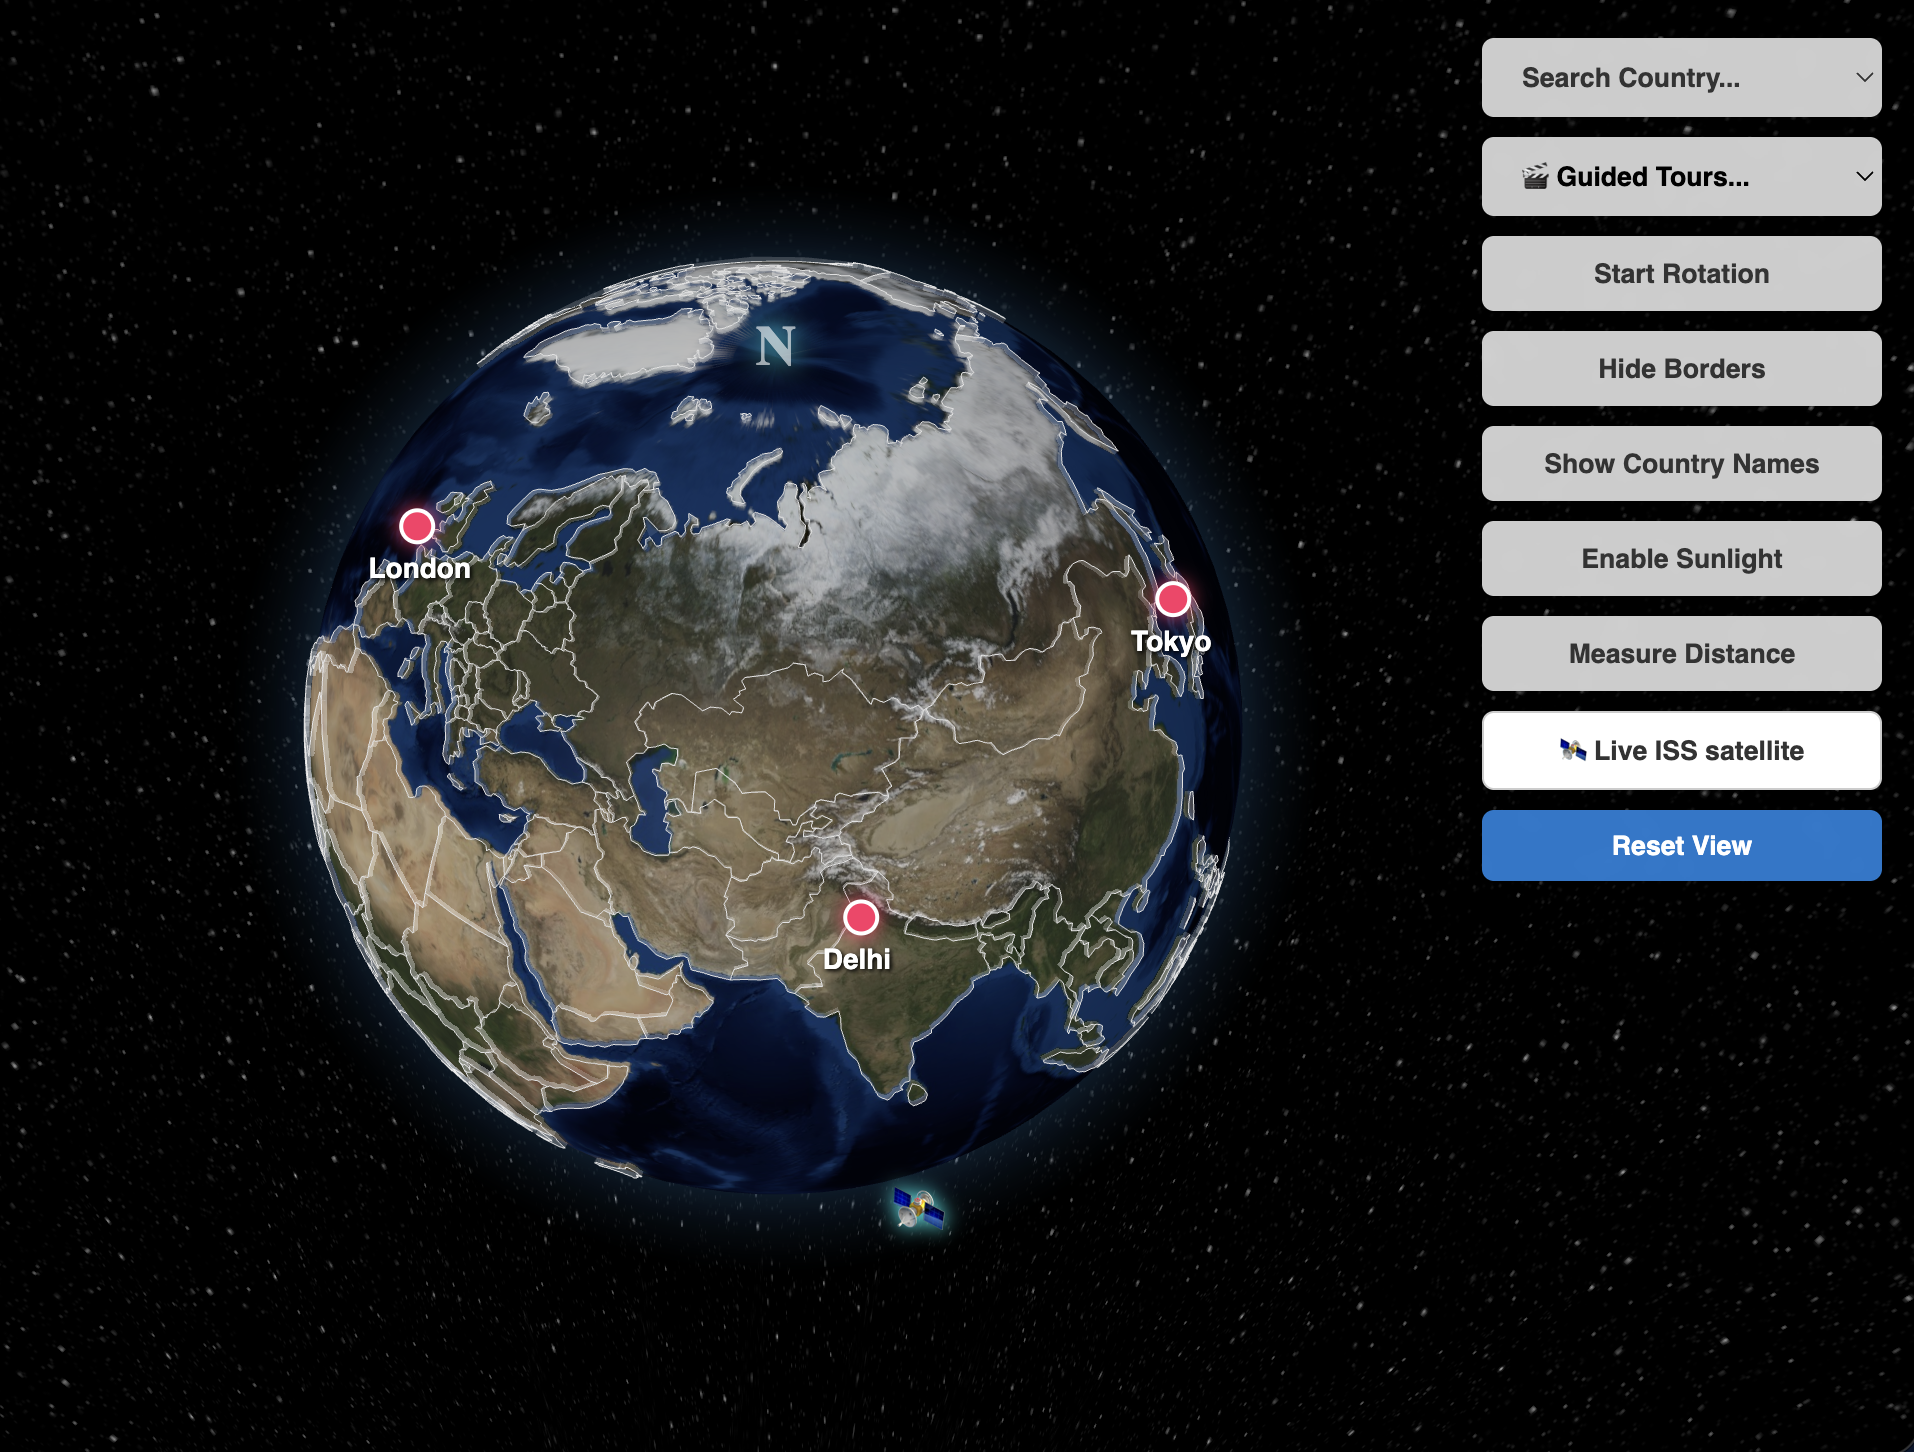
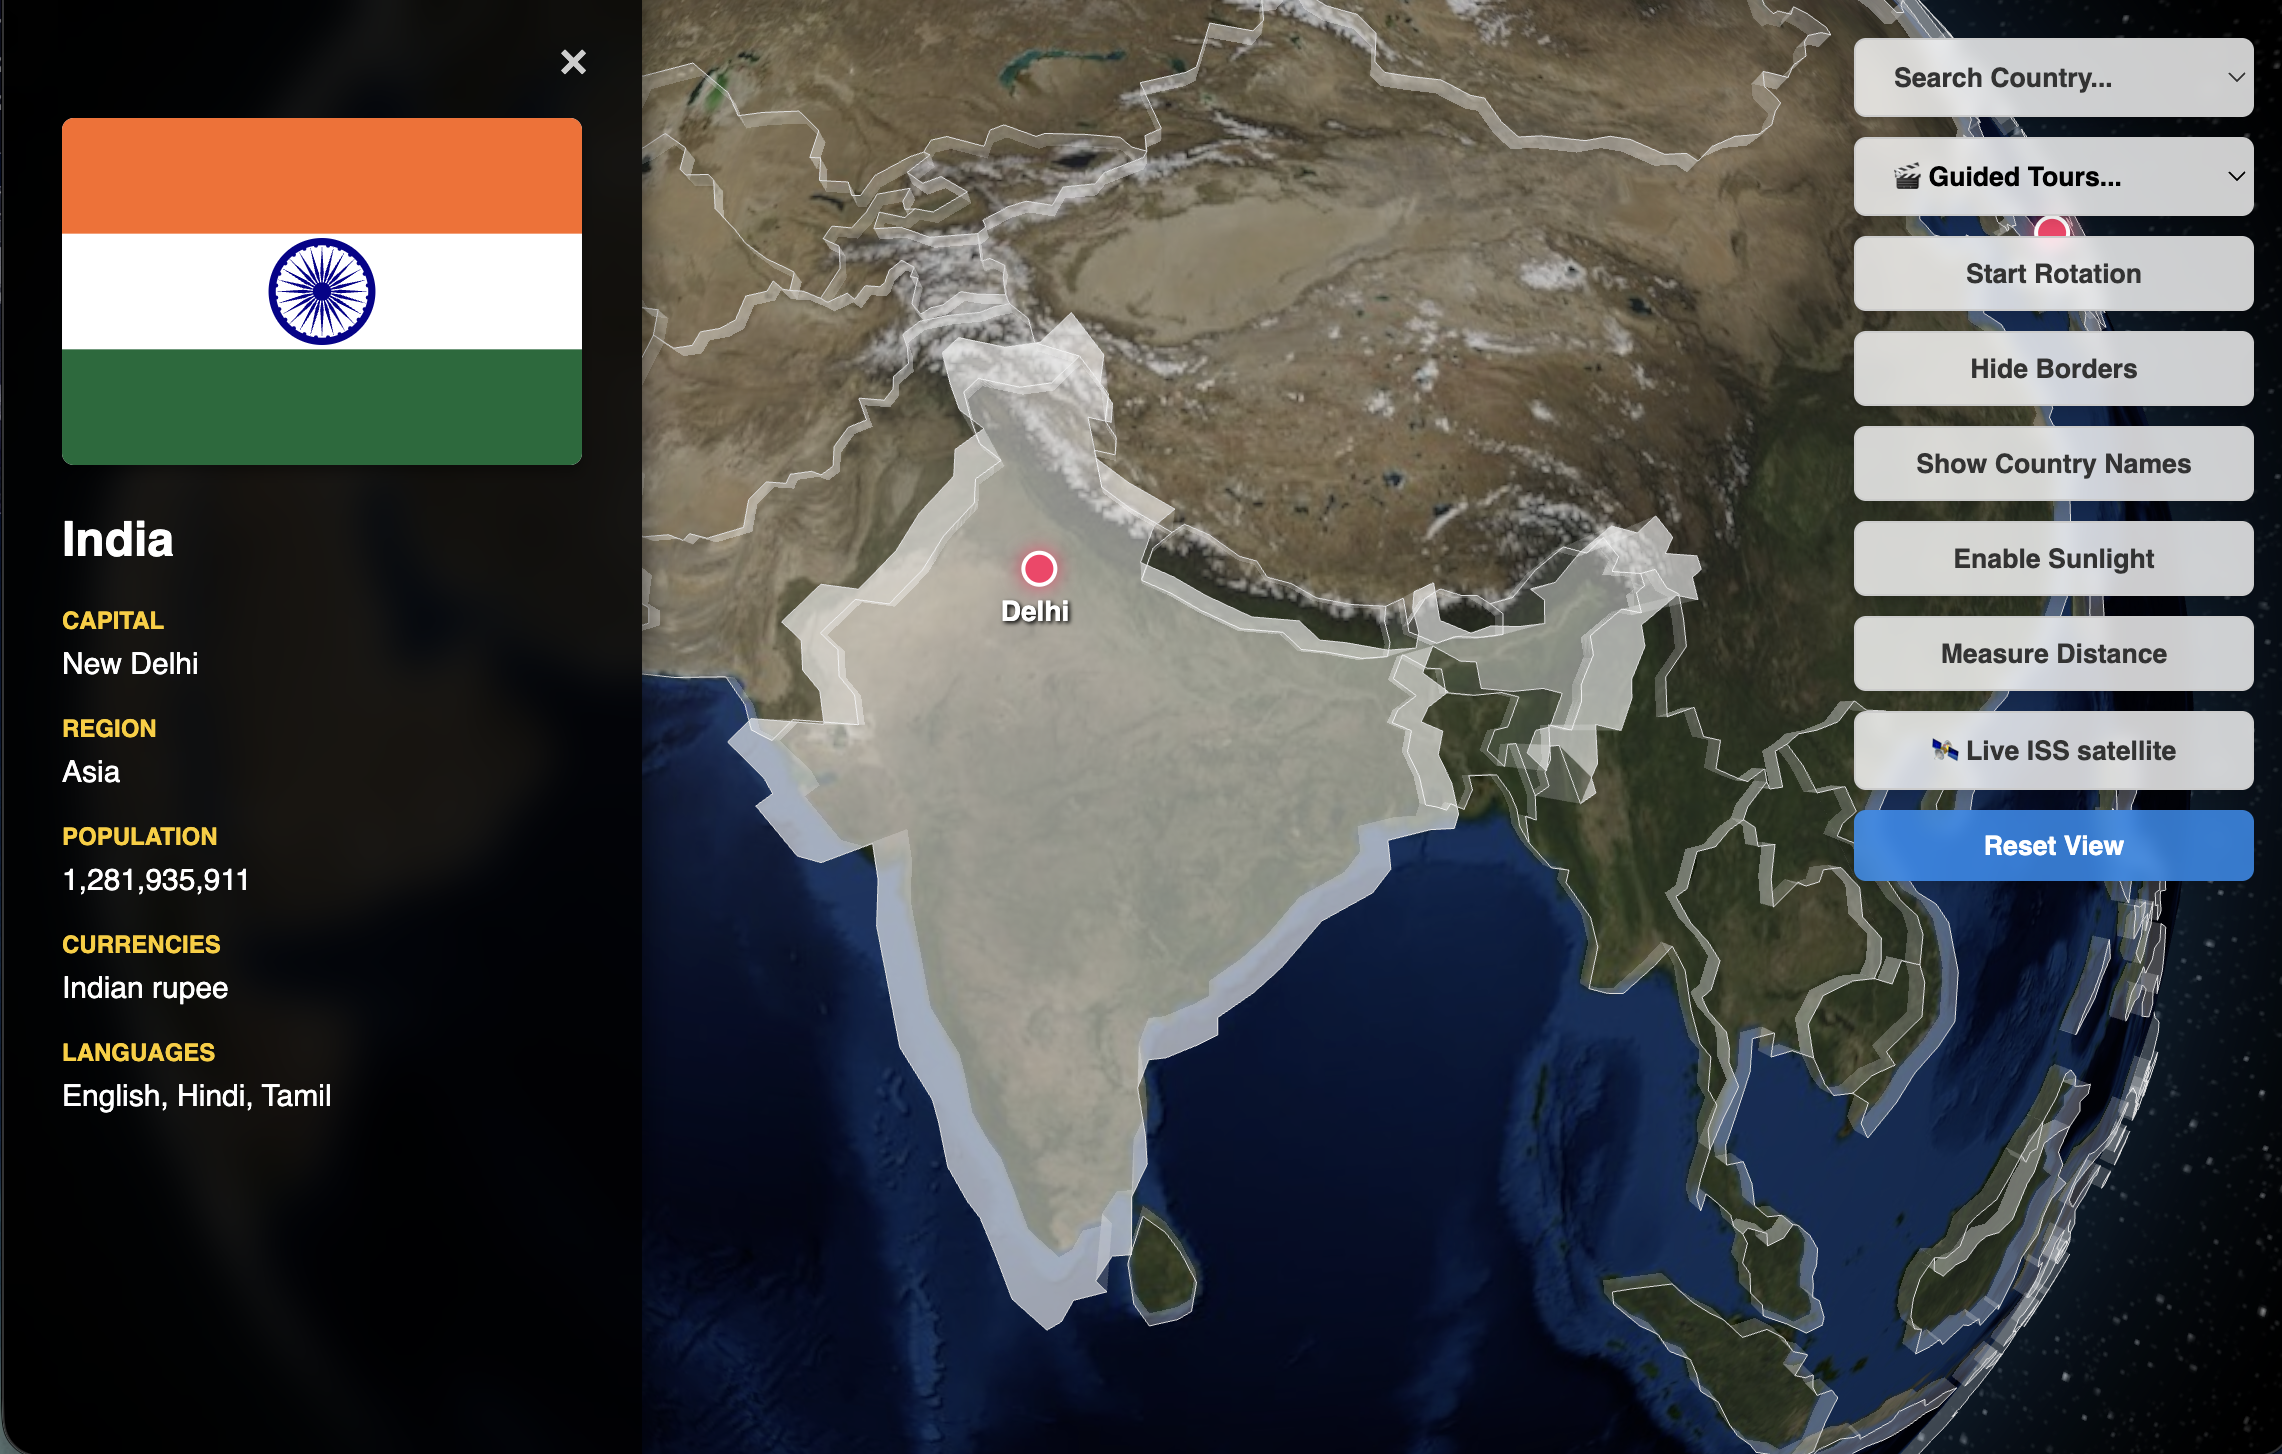
add: orbital 3d moon

diff --git a/src/MyGlobe.jsx b/src/MyGlobe.jsx
@@ -1,9 +1,16 @@
 import React, { useState, useEffect, useRef } from "react";
 import Globe from "react-globe.gl";
+import * as THREE from "three";
 import { calculateDistance, getCentroid } from "./utils";
 import { initialPlaces } from "./data";
 import { tours } from "./tours";
 import "./MyGlobe.css";
+
+import earthBlueMarbleImg from "./assets/globe/earth-blue-marble.jpg";
+import earthDayImg from "./assets/globe/earth-day.jpg";
+import earthNightImg from "./assets/globe/earth-night.jpg";
+import earthTopologyImg from "./assets/globe/earth-topology.png";
+import moonTextureImg from "./assets/globe/moon-texture.jpg";
 
 const MyGlobe = () => {
   const globeEl = useRef();
@@ -13,6 +20,7 @@ const MyGlobe = () => {
   const [isDataLoaded, setIsDataLoaded] = useState(false);
   const [isGlobeReady, setIsGlobeReady] = useState(false);
   const [isImagesLoaded, setIsImagesLoaded] = useState(false);
+  const [customGlobeMaterial, setCustomGlobeMaterial] = useState(null);
 
   const isLoading = !isDataLoaded || !isGlobeReady || !isImagesLoaded;
 
@@ -22,6 +30,7 @@ const MyGlobe = () => {
   const [searchQuery, setSearchQuery] = useState("");
   const [sunlight, setSunlight] = useState(false);
   const [showLabels, setShowLabels] = useState(false);
+  const [showMoon, setShowMoon] = useState(false);
 
   // States for Distance Measure Tool
   const [measureMode, setMeasureMode] = useState(false);
@@ -113,10 +122,60 @@ const MyGlobe = () => {
     }
   }, [autoRotate, activeTour]);
 
-  // Solar Illumination
+  // --- NEW: Pre-build the custom globe material ---
+  useEffect(() => {
+    const textureLoader = new THREE.TextureLoader();
+    textureLoader.setCrossOrigin("Anonymous");
+
+    // Download all textures in parallel
+    Promise.all([
+      new Promise((res) => textureLoader.load(earthBlueMarbleImg, res)),
+      new Promise((res) => textureLoader.load(earthDayImg, res)),
+      new Promise((res) => textureLoader.load(earthNightImg, res)),
+      new Promise((res) => textureLoader.load(earthTopologyImg, res)),
+    ]).then(([blueMarbleTex, dayTex, nightTex, bumpTex]) => {
+      // Create a custom material with the Blue Marble as the default
+      const material = new THREE.MeshPhongMaterial({
+        map: blueMarbleTex,
+        bumpMap: bumpTex,
+        bumpScale: 0.015,
+        // --- NEW: Restore standard colors and ocean reflections ---
+        color: new THREE.Color(0xffffff),
+        specular: new THREE.Color(0x333333), // Gives the oceans a subtle shine
+        shininess: 15,
+      });
+
+      // Store the textures securely inside the material object so we can swap them instantly later
+      material.userData = {
+        blueMarble: blueMarbleTex,
+        day: dayTex,
+        night: nightTex,
+      };
+
+      setCustomGlobeMaterial(material);
+    });
+  }, []);
+
+  // Solar Illumination & Glowing City Lights
   useEffect(() => {
     let interval;
 
+    // 1. Instantly swap the textures on our custom material
+    if (customGlobeMaterial) {
+      if (sunlight) {
+        customGlobeMaterial.map = customGlobeMaterial.userData.day;
+        customGlobeMaterial.emissiveMap = customGlobeMaterial.userData.night;
+        customGlobeMaterial.emissive = new THREE.Color(0xffffff);
+        customGlobeMaterial.emissiveIntensity = 0.8;
+      } else {
+        customGlobeMaterial.map = customGlobeMaterial.userData.blueMarble;
+        customGlobeMaterial.emissiveMap = null;
+        customGlobeMaterial.emissiveIntensity = 0;
+      }
+      customGlobeMaterial.needsUpdate = true; // Tell WebGL to render the changes
+    }
+
+    // 2. Position the sun and adjust lighting
     const updateSunPosition = () => {
       if (globeEl.current) {
         const scene = globeEl.current.scene();
@@ -131,7 +190,7 @@ const MyGlobe = () => {
           if (sunlight) {
             ambientLight.intensity = 0.02;
             ambientLight.color.setHex(0x222233);
-            directionalLight.intensity = 4;
+            directionalLight.intensity = 3;
             directionalLight.color.setHex(0xffffee);
 
             const now = new Date();
@@ -140,13 +199,10 @@ const MyGlobe = () => {
               now.getUTCMinutes() / 60 +
               now.getUTCSeconds() / 3600;
 
-            // Calculate where the sun is currently positioned over the Earth
             const sunLng = 180 - utcHour * 15;
             const month = now.getUTCMonth();
             const sunLat = -23.5 * Math.cos(((month + 0.5) * Math.PI) / 6);
 
-            // FIXED TRIGONOMETRY:
-            // (90 - sunLng) maps the coordinates properly to the 3D globe's axis
             const phi = (90 - sunLat) * (Math.PI / 180);
             const theta = (90 - sunLng) * (Math.PI / 180);
             const r = 200;
@@ -167,17 +223,93 @@ const MyGlobe = () => {
       }
     };
 
-    const timeout = setTimeout(updateSunPosition, 100);
+    updateSunPosition();
 
     if (sunlight) {
       interval = setInterval(updateSunPosition, 60000);
     }
 
     return () => {
-      clearTimeout(timeout);
       if (interval) clearInterval(interval);
     };
-  }, [sunlight]);
+  }, [sunlight, customGlobeMaterial]);
+
+  // --- NEW: 3D Moon & Orbit Animation ---
+  useEffect(() => {
+    if (!globeEl.current) return;
+
+    const scene = globeEl.current.scene();
+    let moonMesh;
+    let animationFrameId;
+
+    if (showMoon) {
+      const textureLoader = new THREE.TextureLoader();
+      textureLoader.setCrossOrigin("Anonymous");
+
+      // The Earth in react-globe has a radius of 100.
+      // We set the Moon to radius 15 so it looks visually balanced.
+      // 1. Scientifically accurate relative size (27% of Earth's radius)
+      const moonGeo = new THREE.SphereGeometry(27, 32, 32);
+      const moonMat = new THREE.MeshStandardMaterial({
+        color: 0xffffff,
+        roughness: 1.0, // The moon is very dusty, not shiny
+        metalness: 0.0,
+      });
+
+      moonMesh = new THREE.Mesh(moonGeo, moonMat);
+      scene.add(moonMesh);
+
+      // Load a high-res texture from the official Three.js examples repository
+      textureLoader.load(
+        // "https://raw.githubusercontent.com/mrdoob/three.js/master/examples/textures/planets/moon_1024.jpg",
+        moonTextureImg,
+        (tex) => {
+          moonMat.map = tex;
+          moonMat.needsUpdate = true;
+        },
+      );
+
+      // Animate the Moon's orbit
+      let angle = 0;
+      const animateMoon = () => {
+        angle += 0.002; // Speed of the orbit
+
+        // 2. Keep distance at 250 so it stays on screen
+        const distance = 250;
+
+        // 3. Accurate 5.14 degree orbital inclination
+        const inclination = 5.14 * (Math.PI / 180);
+
+        // Orbit math: radius of 220 units keeps it comfortably outside the Earth
+        moonMesh.position.x = Math.cos(angle) * distance;
+
+        // Apply the tilt to the Y and Z axes
+        moonMesh.position.z =
+          Math.sin(angle) * distance * Math.cos(inclination);
+        moonMesh.position.y =
+          Math.sin(angle) * distance * Math.sin(inclination);
+
+        // Accurate tidally locked rotation (the same side always faces Earth)
+        moonMesh.rotation.y = -angle + Math.PI / 2;
+
+        animationFrameId = requestAnimationFrame(animateMoon);
+      };
+
+      animateMoon();
+    }
+
+    // Cleanup function when the moon is hidden or component unmounts
+    return () => {
+      if (moonMesh) {
+        scene.remove(moonMesh);
+        moonMesh.geometry.dispose();
+        moonMesh.material.dispose();
+      }
+      if (animationFrameId) {
+        cancelAnimationFrame(animationFrameId);
+      }
+    };
+  }, [showMoon]);
 
   // --- Tour Camera Logic ---
   useEffect(() => {
@@ -573,6 +705,12 @@ const MyGlobe = () => {
           {sunlight ? "Disable Sunlight" : "Enable Sunlight"}
         </button>
         <button
+          onClick={() => setShowMoon(!showMoon)}
+          className="panel-element"
+        >
+          {showMoon ? "Hide Moon" : "Show Moon"}
+        </button>
+        <button
           onClick={toggleMeasureMode}
           className={`panel-element ${measureMode ? "active-measure" : ""}`}
           disabled={activeTour}
@@ -606,8 +744,13 @@ const MyGlobe = () => {
       <Globe
         ref={globeEl}
         onGlobeReady={() => setIsGlobeReady(true)}
-        globeImageUrl="//unpkg.com/three-globe/example/img/earth-blue-marble.jpg"
-        bumpImageUrl="//unpkg.com/three-globe/example/img/earth-topology.png"
+        globeMaterial={customGlobeMaterial}
+        // globeImageUrl={
+        //   sunlight
+        //     ? "https://unpkg.com/three-globe/example/img/earth-day.jpg"
+        //     : "https://unpkg.com/three-globe/example/img/earth-blue-marble.jpg"
+        // }
+        // bumpImageUrl="//unpkg.com/three-globe/example/img/earth-topology.png"
         backgroundImageUrl="//unpkg.com/three-globe/example/img/night-sky.png"
         onGlobeClick={({ lat, lng }) => {
           if (measureMode) handleMapClick(lat, lng);

diff --git a/README.md b/README.md
@@ -2,9 +2,13 @@
 
 An interactive 3D web application built with React and `react-globe.gl`. This project renders a beautiful, fully interactive Earth with cinematic controls, real-time solar illumination, a precise distance measuring tool, live ISS tracking, cinematic guided tours and an instant country encyclopedia.
 
-<div style="display: flex; gap: 5px;">
-  <img src="public/preview1.png" alt="First" width="50%"/>
-  <img src="public/preview2.png" alt="Second" width="50%"/>
+<div style="display: flex; margin-bottom: 10px;">
+   <img src="public/preview2.png" alt="Site Preview Image 3" style="width: 100%; aspect-ratio: 25/9; object-fit: contain;" />
+</div>
+
+<div style="display: flex; gap: 10px;">
+  <img src="public/preview1.png" alt="Site Preview Image 1" style="width: calc(50% - 5px); aspect-ratio: 16/9; object-fit: contain;" />
+  <img src="public/preview3.png" alt="Site Preview Image 2" style="width: calc(50% - 5px); aspect-ratio: 16/9; object-fit: contain;" />
 </div>
 
 ## ✨ Features
@@ -13,9 +17,10 @@ An interactive 3D web application built with React and `react-globe.gl`. This pr
 - **Guided Cinematic Tours**: An interactive "story mode" that smoothly flies the camera to curated global landmarks (e.g., the 7 Wonders of the World). Features a sleek glassmorphic panel with descriptions, custom local imagery, and clickable Wikipedia links.
 - **Live ISS Satellite Tracking**: Fetches real-time telemetry data to render a glowing 3D International Space Station that orbits the globe. Includes a "Find ISS" button to instantly snap the camera to the astronauts' current location.
 - **Slide-Out Encyclopedia**: Click any country (or search via the dropdown) to instantly slide out a sleek, glassmorphic info panel. Displays the country's flag, capital, population, languages, and currencies with zero API latency.
-- **Interactive Distance Measure Tool**: Toggle measure mode to click any two points on the Earth. Draws a glowing 3D flight arc, radar rings, and calculates the exact real-world distance in kilometers using the Haversine formula.
 - **Real-Time Solar Illumination**: Toggle sunlight to simulate the exact real-world day/night cycle based on current UTC time. Darkens the night side and adds a realistic sun reflection to the oceans.
+- **Orbital 3D Moon**: A dynamic, tidally-locked 3D Moon built with native Three.js that smoothly orbits the Earth. Features accurate relative sizing, a 5.14° orbital inclination, and reacts to the solar illumination tool to display realistic lunar phases.
 - **Country Search & Highlighting**: Dropdown menu to search for any country. Calculates the centroid of the country's geometry and automatically flies the camera to it.
+- **Interactive Distance Measure Tool**: Toggle measure mode to click any two points on the Earth. Draws a glowing 3D flight arc, radar rings, and calculates the exact real-world distance in kilometers using the Haversine formula.
 - **Custom Map Markers**: HTML-based glowing city markers (New York, London, Tokyo, Sydney, Delhi, Bangalore, Bangkok, Cairo).
 
 ## 🛠 Tech Stack
